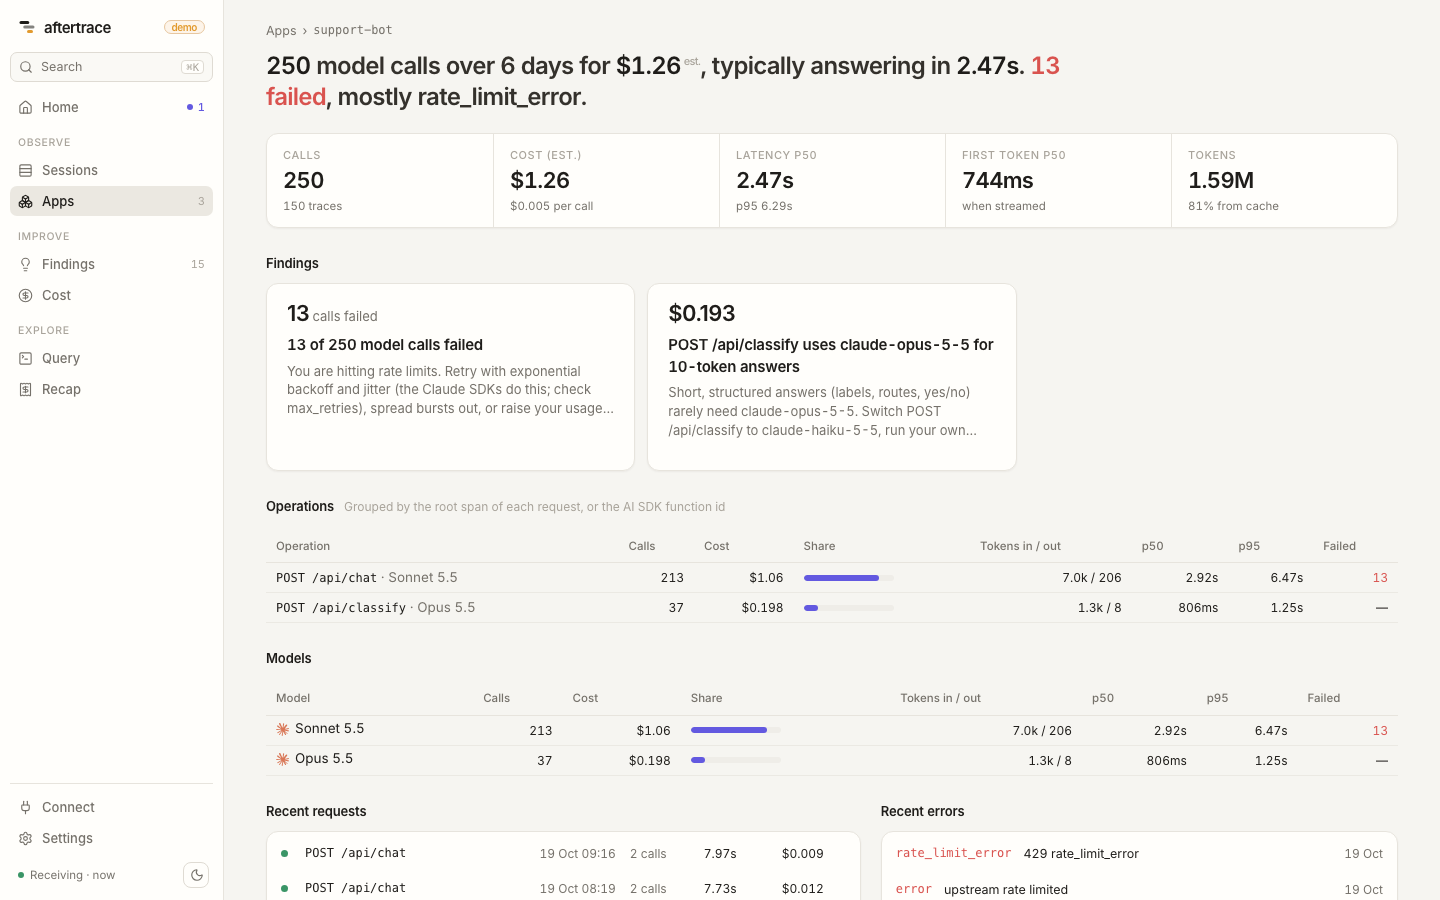
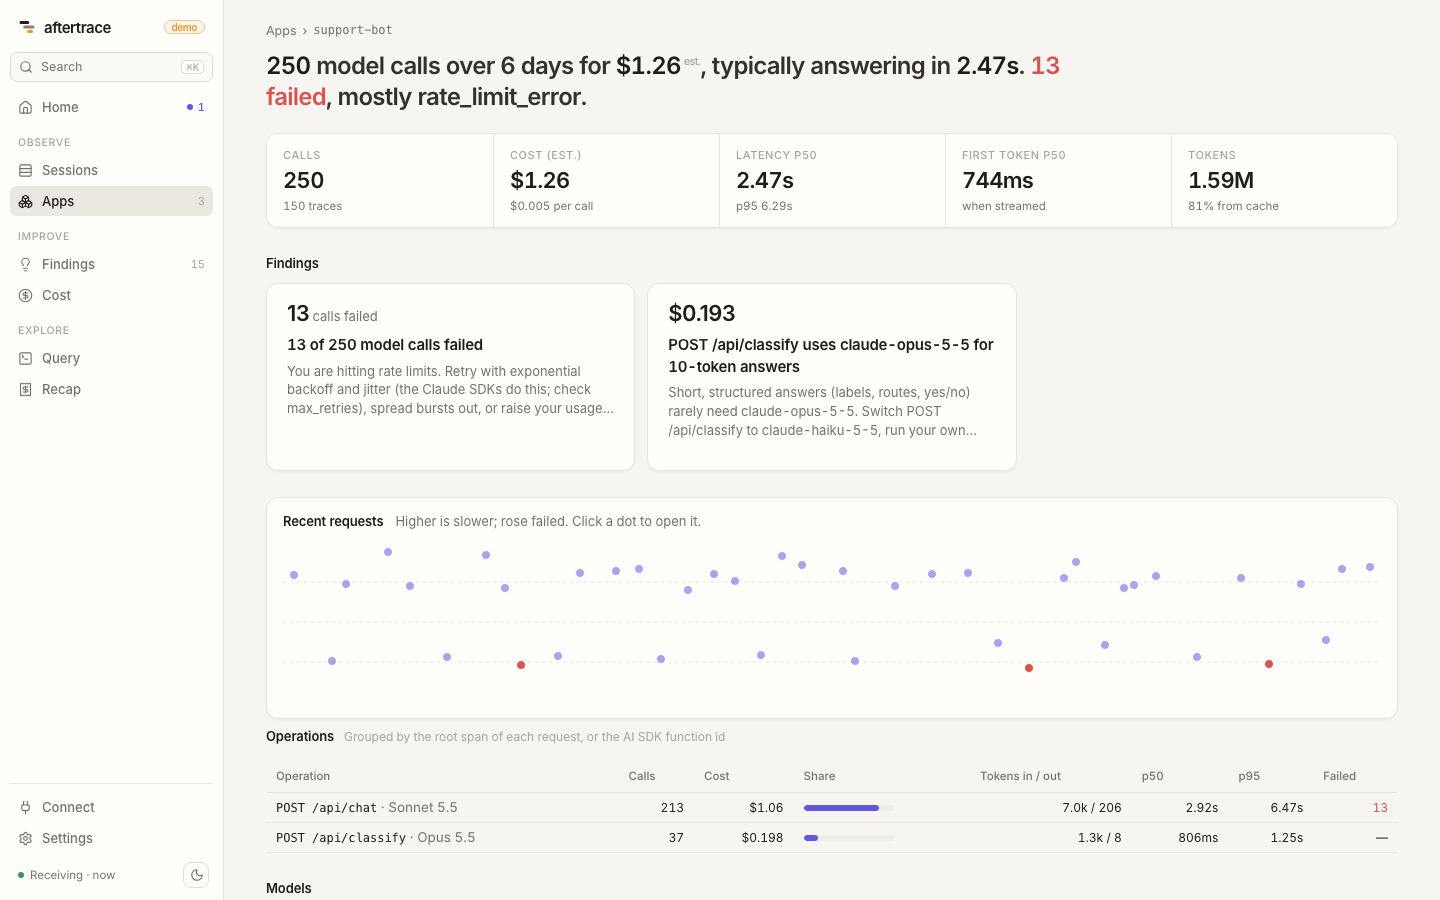
App page: recent requests as a latency scatter you can point at and open.

diff --git a/web/src/components/RequestScatter.tsx b/web/src/components/RequestScatter.tsx
@@ -1,0 +1,60 @@
+import { useState } from "react"
+import { useLocation } from "wouter"
+import { dur, usd, when } from "../lib/format"
+import type { AppDetail } from "../lib/types"
+
+// Recent requests as dots: across is when, up is how long. Slow outliers and
+// failures stand out without reading a table, and every dot opens its trace.
+export function RequestScatter({ rows }: { rows: AppDetail["recent"] }) {
+  const [, nav] = useLocation()
+  const [hover, setHover] = useState<number | null>(null)
+  if (rows.length < 3) return null
+  const W = 1000
+  const H = 160
+  const P = 10
+  const t0 = Math.min(...rows.map((r) => r.start_ns))
+  const t1 = Math.max(...rows.map((r) => r.start_ns))
+  const maxMs = Math.max(...rows.map((r) => r.duration_ms), 1)
+  // Square-root scale: a few very slow requests do not flatten the rest.
+  const y = (ms: number) => H - P - Math.sqrt(ms / maxMs) * (H - P * 2)
+  const x = (ns: number) => P + ((ns - t0) / Math.max(t1 - t0, 1)) * (W - P * 2)
+  const h = hover != null ? rows[hover] : null
+  const order = rows.map((r, i) => ({ r, i })).sort((a, b) => a.r.start_ns - b.r.start_ns)
+  return (
+    <div className="scatter card" onMouseLeave={() => setHover(null)}>
+      <div className="act-head">
+        <span className="act-title">Recent requests</span>
+        <span className="act-read">
+          {h ? (
+            <>
+              <b>{h.name}</b> · {dur(h.duration_ms)} · {h.calls} {h.calls === 1 ? "call" : "calls"}
+              {h.cost_usd != null ? ` · ${usd(h.cost_usd)}` : ""} · {when(h.start_ns).date} {when(h.start_ns).time}
+              {h.error ? <span className="err-text"> · failed</span> : null}
+            </>
+          ) : (
+            <span className="mute">Higher is slower; rose failed. Click a dot to open it.</span>
+          )}
+        </span>
+      </div>
+      <svg viewBox={`0 0 ${W} ${H}`} preserveAspectRatio="none" className="scatter-svg" role="img" aria-label="Recent requests by time and duration">
+        {[0.25, 0.5, 0.75].map((f) => (
+          <line key={f} x1={0} x2={W} y1={H * f} y2={H * f} className="scatter-grid" />
+        ))}
+      </svg>
+      <div className="scatter-dots">
+        {order.map(({ r, i }, k) => (
+          <button
+            type="button"
+            key={r.trace_id}
+            className={`sdot${r.error ? " is-err" : ""}${hover === i ? " is-hot" : ""}`}
+            style={{ left: `${(x(r.start_ns) / W) * 100}%`, top: `${(y(r.duration_ms) / H) * 100}%`, ["--i" as string]: Math.min(k, 40) }}
+            onMouseEnter={() => setHover(i)}
+            onFocus={() => setHover(i)}
+            onClick={() => nav(`/trace/${r.trace_id}`)}
+            aria-label={`${r.name}, ${dur(r.duration_ms)}${r.error ? ", failed" : ""}`}
+          />
+        ))}
+      </div>
+    </div>
+  )
+}

diff --git a/web/src/styles/global.css b/web/src/styles/global.css
@@ -1691,3 +1691,19 @@ tbody.stagger > tr { animation-name: fade-up; animation-duration: 420ms; }
 .grid tr { transition: opacity var(--dur-2) ease, background-color var(--dur-1) ease; }
 .grid tr.is-cool { opacity: 0.5; }
 .grid tr.is-hot { background: color-mix(in oklab, var(--hue-model) 5%, transparent); }
+
+/* App: recent requests as dots; they pop in left to right. */
+.scatter { margin: 18px 0 8px; padding: 14px 16px 16px; }
+.scatter { position: relative; }
+.scatter-svg { display: block; width: 100%; height: 160px; }
+.scatter-grid { stroke: var(--line); stroke-dasharray: 3 4; vector-effect: non-scaling-stroke; }
+.scatter-dots { position: absolute; left: 16px; right: 16px; bottom: 16px; height: 160px; }
+.sdot {
+  position: absolute; width: 10px; height: 10px; margin: -5px 0 0 -5px; padding: 0; border-radius: 99px; cursor: pointer;
+  background: color-mix(in oklab, var(--hue-model) 55%, transparent); border: 1.5px solid var(--surface);
+  animation: pop 420ms cubic-bezier(0.34, 1.56, 0.64, 1) both; animation-delay: calc(150ms + var(--i, 0) * 14ms);
+  transition: transform var(--dur-1) var(--ease-out), background-color var(--dur-1) ease;
+}
+.sdot.is-err { background: var(--hue-retry); }
+.sdot:hover, .sdot.is-hot { transform: scale(1.6); background: var(--hue-model); z-index: 2; }
+.sdot.is-err:hover, .sdot.is-err.is-hot { background: var(--hue-retry); }

diff --git a/web/src/pages/AppPage.tsx b/web/src/pages/AppPage.tsx
@@ -1,6 +1,7 @@
 import { useEffect, useState } from "react"
 import { Link, useLocation, useParams } from "wouter"
 import { ModelName } from "../components/SpanIcon"
+import { RequestScatter } from "../components/RequestScatter"
 import { api } from "../lib/api"
 import { dur, impactParts, int, pct, tok, usd, when, modelName } from "../lib/format"
 import type { AppDetail, AppGroup, Finding } from "../lib/types"
@@ -98,6 +99,7 @@ export function AppPage() {
         </section>
       )}
 
+      <RequestScatter rows={d.recent} />
       <Groups title="Operations" hint="Grouped by the root span of each request, or the AI SDK function id" rows={d.operations} />
       <Groups title="Models" rows={d.models} />
 
